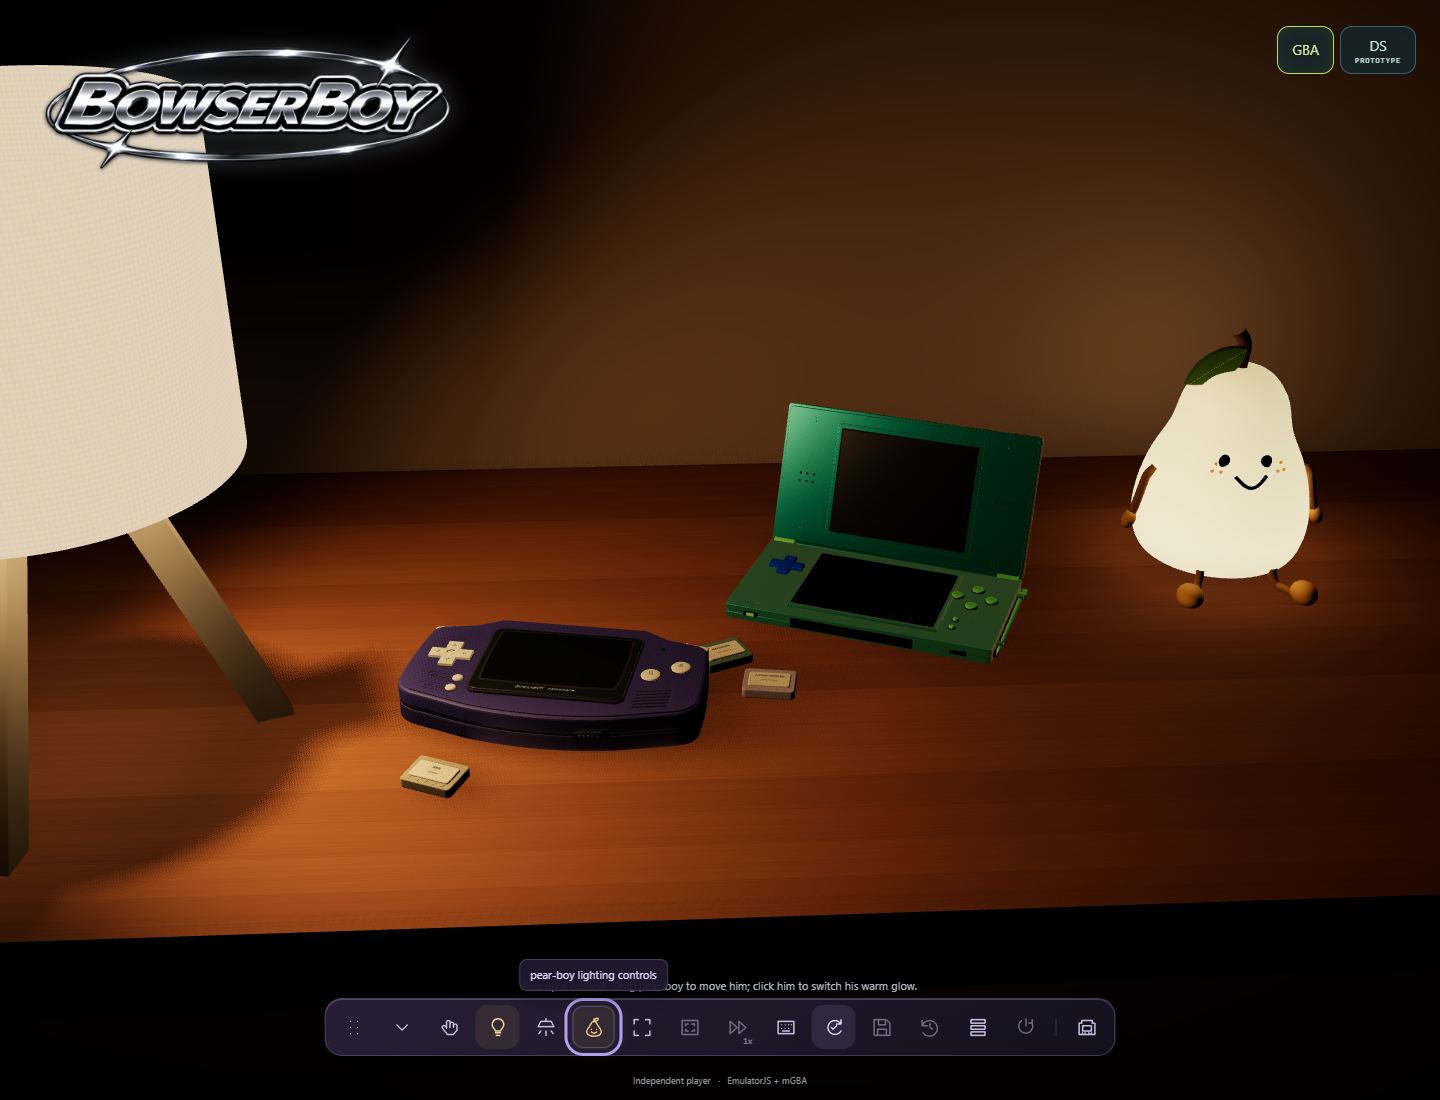
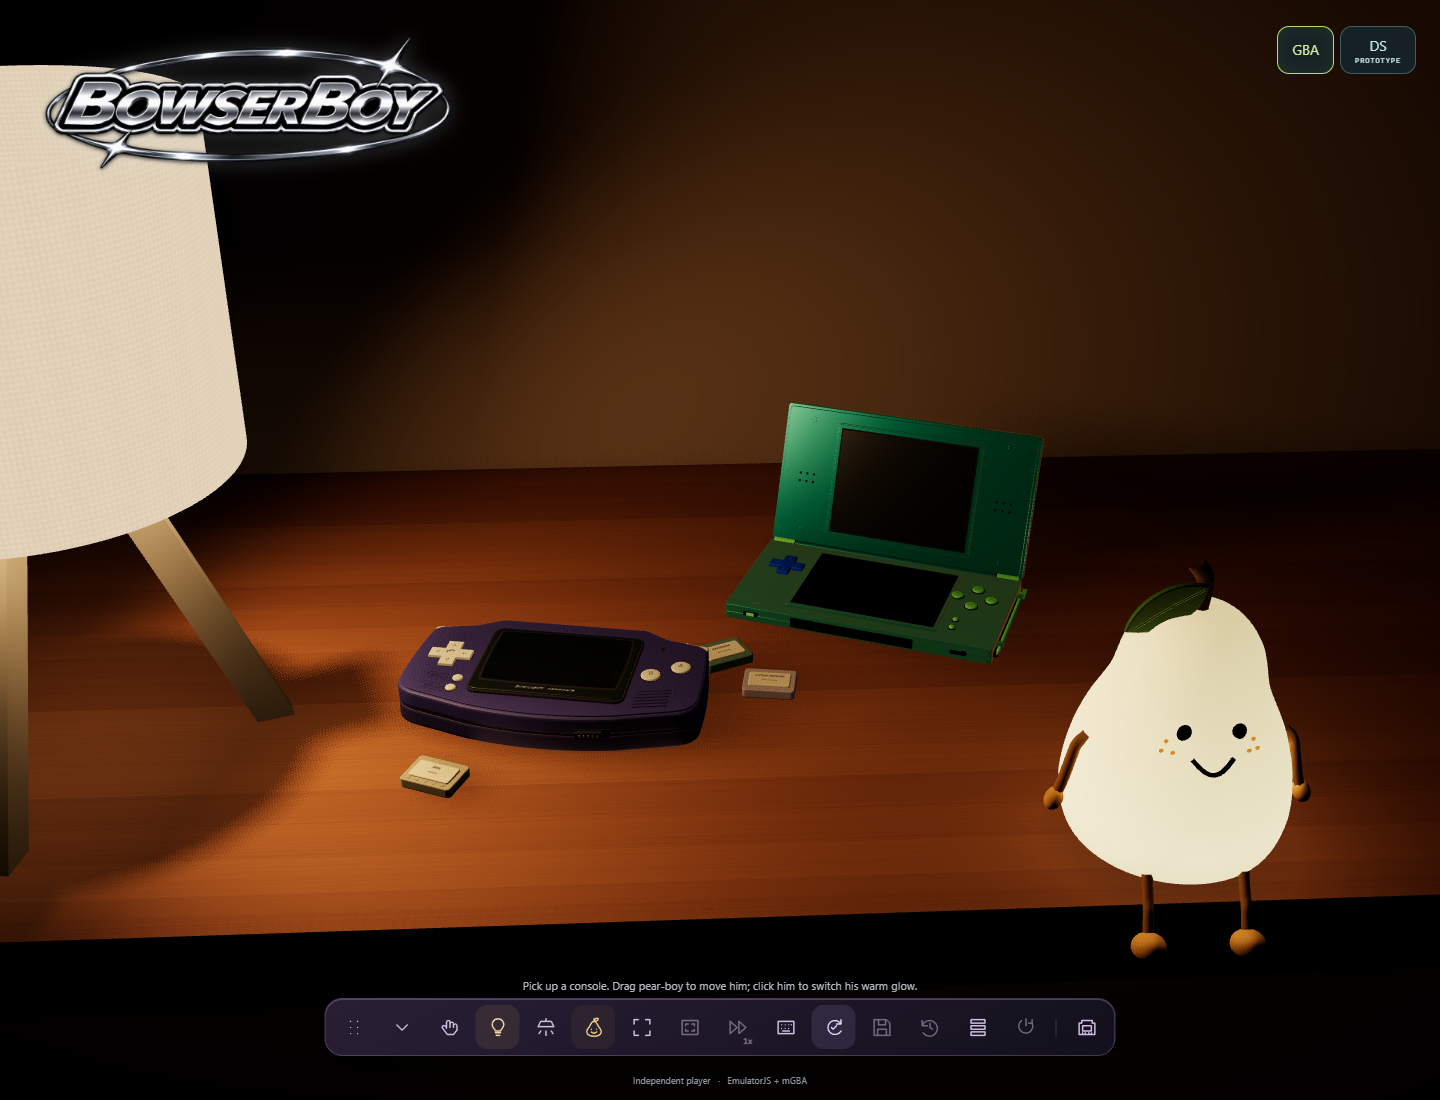
Seat pear-boy at the desk edge and move his whole face
Copilot-Session: 8e7d69ac-78f7-4310-8b8d-14bf8681a509

Changed region(s): [[0.6562, 0.1545, 1.0, 0.8655], [0.3438, 0.8655, 0.4688, 0.9582]]

diff --git a/src/pear-boy.js b/src/pear-boy.js
@@ -38,13 +38,15 @@ export function createPearBoy() {
   const cord = new THREE.MeshStandardMaterial({ color: '#ead8a8', map: braid, roughness: .95 });
   const limbs = [];
   const face = {
-    calm: new THREE.Group(), scared: new THREE.Group(), eyes: [],
+    root: new THREE.Group(), calm: new THREE.Group(), scared: new THREE.Group(), eyes: [],
     anchor: new THREE.Object3D(), gaze: new THREE.Vector2(), lifted: false, elapsed: 0,
   };
   face.calm.name = 'pear-boy curious face';
   face.scared.name = 'pear-boy scared-of-heights face';
   face.scared.visible = false;
-  root.add(face.calm, face.scared);
+  face.root.name = 'pear-boy pointer-following face';
+  face.root.add(face.calm, face.scared);
+  root.add(face.root);
   function mesh(name, geometry, material, position = new THREE.Vector3()) {
     const object = new THREE.Mesh(geometry, material);
     object.name = name;
@@ -106,6 +108,7 @@ export function createPearBoy() {
     for (const [x, y] of [[1.05, 4.25], [1.16, 4.03], [.92, 4.04]]) {
       const dot = mesh('pear-boy cheek freckle', new THREE.SphereGeometry(.055, 10, 8), freckles, front(side * x, y));
       dot.scale.z = .4;
+      face.root.add(dot);
     }
     const hand = mesh('pear-boy rounded hand', new THREE.SphereGeometry(1, 16, 12), gold,
       new THREE.Vector3(side * 3.05, 1.6, .8));
@@ -148,8 +151,11 @@ export function createPearBoy() {
     face.gaze.lerp(target, blend);
     if (face.gaze.distanceToSquared(target) < 1e-7) face.gaze.copy(target);
     const changed = face.gaze.x !== previousX || face.gaze.y !== previousY;
-    if (changed) for (const { mesh, side } of face.eyes) {
-      mesh.position.copy(front(side * .66 + face.gaze.x * .16, 4.5 + face.gaze.y * .14));
+    if (changed) {
+      face.root.position.y = face.gaze.y * .18;
+      face.root.rotation.y = face.gaze.x * .22;
+      const radius = radiusAt(4.5 + face.root.position.y) / radiusAt(4.5);
+      face.root.scale.set(radius, 1, radius);
     }
     if (face.lifted) {
       face.elapsed += Math.min(delta, .05);
@@ -184,7 +190,8 @@ export function createPearBoy() {
     context.fillRect(0, 0, width, height);
   });
   const contact = mesh('pear-boy soft contact shadow', new THREE.PlaneGeometry(6.6, 6.6),
-    new THREE.MeshBasicMaterial({ map: shadow, transparent: true, depthWrite: false }),
+    new THREE.MeshBasicMaterial({ map: shadow, transparent: true, depthWrite: false,
+      clippingPlanes: [new THREE.Plane(new THREE.Vector3(0, 0, -1), 10)] }),
     new THREE.Vector3(0, .012, .15));
   contact.rotation.x = -Math.PI / 2;
   contact.userData.pearBoy = false;
@@ -225,18 +232,18 @@ export function createPearBoy() {
     rope.geometry.computeBoundingBox();
     rope.geometry.computeBoundingSphere();
     tip.position.copy(curve.points.at(-1));
-    if (physics.positions.at(-1).y <= physics.tipFloor + .01) tip.quaternion.identity();
+    if (physics.tipSupported) tip.quaternion.identity();
     else tip.quaternion.setFromUnitVectors(up, tangent.subVectors(curve.points.at(-2), tip.position).normalize());
   }
   function resetLimbs() {
-    for (const limb of limbs) { limb.physics.reset(root.position); paintLimb(limb); }
+    for (const limb of limbs) { limb.physics.settle(root.position); paintLimb(limb); }
   }
   function updateLimbs(delta, reducedMotion) {
     let changed = false;
     for (const limb of limbs) {
       if (reducedMotion) {
         if (!limb.physics.sleeping || !limb.physics.origin.equals(root.position)) {
-          limb.physics.reset(root.position);
+          limb.physics.settle(root.position);
           paintLimb(limb);
           changed = true;
         }

diff --git a/src/pear-rope.js b/src/pear-rope.js
@@ -1,6 +1,7 @@
 import { Vector3 } from 'three';
 
 const step = 1 / 120;
+const tableFront = 10, tableBottom = -2.4;
 
 export class PearRope {
   constructor(points, { radiusAt, radius = .085, tipRadius = .32, tipFloor = tipRadius }) {
@@ -28,6 +29,20 @@ export class PearRope {
     this.accumulator = 0;
     this.quietFrames = 0;
     this.sleeping = true;
+  }
+
+  settle(origin) {
+    this.reset(origin);
+    this.sleeping = false;
+    for (let i = 0; i < 600 && !this.sleeping; i++) this.integrate();
+    this.previous.forEach((point, index) => point.copy(this.positions[index]));
+    this.accumulator = 0;
+    this.sleeping = true;
+  }
+
+  get tipSupported() {
+    const tip = this.positions.at(-1);
+    return Math.abs(tip.y - this.tipFloor) < .01 && tip.z <= tableFront;
   }
 
   update(origin, seconds) {
@@ -98,11 +113,28 @@ export class PearRope {
       for (let i = 1; i <= last; i++) {
         const p = this.positions[i], previous = this.previous[i];
         const floor = i === last ? this.tipFloor : this.radius;
-        if (p.y < floor) {
-          p.y = floor;
-          previous.y = floor;
-          previous.x = p.x - (p.x - previous.x) * .75;
-          previous.z = p.z - (p.z - previous.z) * .75;
+        const radius = i === last ? this.tipRadius : this.radius;
+        const edge = tableFront + radius;
+        if (p.y < floor && p.y > tableBottom - floor && p.z < edge) {
+          if (p.z > tableFront && p.y > 0) {
+            const distance = Math.hypot((p.z - tableFront) / radius, p.y / floor);
+            if (distance < 1) {
+              p.z = tableFront + (p.z - tableFront) / distance;
+              p.y /= distance;
+            }
+          } else if (p.y <= 0 && edge - p.z < floor - p.y) {
+            p.z = edge;
+            previous.z = edge;
+          } else {
+            p.y = floor;
+            previous.y = floor;
+            previous.x = p.x - (p.x - previous.x) * .75;
+            previous.z = p.z - (p.z - previous.z) * .75;
+          }
+        }
+        if (p.y < -35 + floor) {
+          p.y = -35 + floor;
+          previous.y = p.y;
         }
         const x = p.x - this.origin.x, z = p.z - this.origin.z;
         const radial = Math.hypot(x, z), body = this.radiusAt(p.y - this.origin.y);

diff --git a/src/scene.js b/src/scene.js
@@ -12,9 +12,9 @@ const playPosition = new THREE.Vector3(0, 3.5, 0);
 const tablePosition = new THREE.Vector3(-.6, .68, .4);
 const dsTablePosition = new THREE.Vector3(10.3, .32, -7.2);
 const dsTableQuaternion = new THREE.Quaternion().setFromEuler(new THREE.Euler(-Math.PI / 2, 0, -.4));
-const dsPlayPosition = new THREE.Vector3(10.3, 5.1, 3.5);
+const dsPlayPosition = new THREE.Vector3(10.3, 5.1, 8);
 const dsPlayQuaternion = new THREE.Quaternion().setFromEuler(new THREE.Euler(-.45, -.18, 0));
-const pearHome = new THREE.Vector3(21.3, 0, -8);
+const pearHome = new THREE.Vector3(15.3, 0, 7.3);
 
 export class HandheldScene {
   constructor(host, { onTools, onView, onError, onLamp, onConsole }) {
@@ -34,6 +34,7 @@ export class HandheldScene {
     this.renderer.shadowMap.enabled = true;
     this.renderer.shadowMap.type = THREE.PCFShadowMap;
     this.renderer.shadowMap.autoUpdate = false;
+    this.renderer.localClippingEnabled = true;
     this.canvas = this.renderer.domElement;
     this.canvas.id = 'scene-canvas';
     this.canvas.tabIndex = 0;
@@ -233,6 +234,7 @@ export class HandheldScene {
         if (steps[event.code]) {
           event.preventDefault();
           this.movePearTo(this.pear.root.position.clone().add(new THREE.Vector3(...steps[event.code])));
+          this.pearMotion.velocity.set(0, 0, 0);
         } else if (event.code === 'Enter' || event.code === 'Escape') {
           event.preventDefault();
           this.finishPearMove(event.code === 'Escape');
@@ -365,7 +367,7 @@ export class HandheldScene {
 
   movePearTo(point) {
     const position = new THREE.Vector3(THREE.MathUtils.clamp(point.x, -22, 24), THREE.MathUtils.clamp(point.y, 0, 25),
-      THREE.MathUtils.clamp(point.z, -11.5, 5.5));
+      THREE.MathUtils.clamp(point.z, -11.5, 7.5));
     const candidate = this.pear.bounds.clone().translate(position);
     const occupied = this.pearObstacles().some(bounds =>
       candidate.max.x + .25 > bounds.min.x && candidate.min.x - .25 < bounds.max.x &&

diff --git a/src/pear-motion.js b/src/pear-motion.js
@@ -63,7 +63,7 @@ export class PearMotion {
         supported = true;
       }
       for (const axis of ['x', 'z']) {
-        const low = axis === 'x' ? -22 : -11.5, high = axis === 'x' ? 24 : 5.5;
+        const low = axis === 'x' ? -22 : -11.5, high = axis === 'x' ? 24 : 7.5;
         if (this.position[axis] < low || this.position[axis] > high) {
           this.position[axis] = Math.max(low, Math.min(high, this.position[axis]));
           this.velocity[axis] *= -.23;

diff --git a/docs/ARCHITECTURE.md b/docs/ARCHITECTURE.md
@@ -41,12 +41,19 @@ scene/app event boundary for independent power, brightness, movement and reset.
 `src/pear-motion.js` advances an upright body at 120Hz with gravity, bounded
 release velocity, box-based prop collisions, desk bounds, bounce, friction
 and sleep. Pointer drags use a camera-facing plane plus grab offset; wheel
-depth translates that plane by the actual clamped displacement. Cancellation
+depth translates that plane by the actual clamped displacement. Keyboard
+steps clear pointer-style release velocity for deliberate placement. Cancellation
 restores the original pose and clears momentum. The contact shadow stays on
 the table, fading and widening with height.
 
 `src/pear-rope.js` uses fixed-step Verlet particles, a pinned anchor, heavier
-tip and iterative length/body/floor constraints. Dynamic tube vertices,
+tip and iterative length/body/table constraints. The finite desk top ends at
+world Z=10, with a 2.4-unit front fascia. Elliptical rounded-corner contact
+avoids an invisible square-expanded ledge under partly overhanging feet.
+Top/side projection lets the feet
+hang outside the front edge without cutting through the wood. Explicit reset
+and reduced motion settle the ropes for the actual body position rather than
+translating a flat-table rest pose. Dynamic tube vertices,
 normals and both bounds follow the particles in place. The thicker .14-radius
 arms and legs are longer than the first pear model; hands and feet follow their
 rope ends. Constraints also run when an anchor moves between physics steps,
@@ -54,7 +61,10 @@ preventing visible stretching on high-frequency pointer frames. Convergence
 is bounded at 120 iterations, ending early below .002 segment-length error.
 Body movement, ropes and face updates run before idle-paint suppression.
 
-Cursor gaze uses a stable face anchor, not a moving eye mesh. Held/airborne
+Cursor gaze uses a stable face anchor, not a moving eye mesh. A shared face
+group turns the eyes, mouth and freckles together around the pear's axis;
+vertical motion adjusts radial scale to follow its tapered shell. The body,
+leaf and anchor do not chase their own face movement. Held/airborne
 state selects squeezed eyes and a trembling mouth; settling restores the
 curious face. Reduced motion snaps gaze and removes decorative swing/tremble.
 DS reflections wait for landing instead of capturing every falling frame.
@@ -76,6 +86,9 @@ keeps both LCDs readable. Its table pose faces the lamp, rests on underside
 rubber feet and clears the loose cartridges. Pickup remains over its own
 side of the desk. Inspection invalidation compares the active root's identity,
 position and quaternion, rather than always watching the GBA.
+The held DS sits modestly forward of the seated pear, keeping the original
+front-facing inspection camera and both screens unobstructed without
+moving the console beyond the existing desk illumination.
 
 The physical shell uses #2A9D98 teal, metalness .80, roughness .35, deterministic
 fine-grain roughness/bump and clearcoat. Lime hinge/stylus plastic is dielectric

diff --git a/docs/VERIFICATION.md b/docs/VERIFICATION.md
@@ -7,9 +7,47 @@ The [engineering book](book/README.md) explains the mechanisms and failure
 lessons. Its source edition and local preview media do not replace this release
 record or constitute fresh execution of historical tests.
 
-## Current follow-up and manual-release status, 2026-11-06
+## Current follow-up and manual-release status, 2026-11-07
 
-### pear-boy local companion
+### Whole-face tracking, seated edge and transparent DS emblem
+
+Final `npx playwright test ds.spec.mjs pear-boy.spec.mjs`: **10 passed in 1.9m**,
+all four DS cases and all six pear cases. This requalifies actual Twin Lab
+pixels, buttons/stylus, saves/lifecycle/retry and 390px framing after the DS
+pickup adjustment. Pear checks include the whole eye/mouth/freckle group,
+default dangling feet, tabletop placement, return to the edge, reduced-motion
+reset, real touch, diffuse warm wood pixels and visible free-3D falling.
+All **34 working-tree unit tests**, application syntax and build pass.
+The three original lamp/dark-room/LCD-spill cases passed in the preceding
+combined gate; this is not a full-suite result.
+
+The exact staged feature was then extracted without unrelated sparse-clock
+or tracking edits. Its **30 unit tests**, syntax and build pass; a single
+**13-case Edge gate passes in 2.6m**, combining all six pear, four DS and
+three original lighting cases. This independently qualifies the committed
+subset rather than relying on uncommitted changes elsewhere.
+
+An intermediate rounded-edge fixture exposed feet asleep on an invisible
+square-expanded ledge. Elliptical top/front contact lets overhanging feet
+slide down instead. Keyboard steps now clear pointer-style throw momentum.
+Light probes were moved from behind the new pear silhouette onto visible
+wood; actual warmth/falloff requirements remain. Longer pointer travel
+qualifies the same world-space lift thresholds in the closer framing.
+
+The new foreground pear initially obscured DS inspection. A distant forward
+trial made the shell too dark; a lateral camera trial still left occlusion.
+Both were discarded. A modest forward held-DS placement preserves the
+original front-facing camera, actual teal pixels and existing light rig.
+The supplied Chrome Neon emblem has transparent browser-loaded corners,
+2149x732 intrinsic dimensions and retained bright lettering/glow.
+
+Actual final edge, interior, DS front and phone renders were reviewed.
+Body physics remains upright/box-based, not a full rigid-body or cloth engine;
+rope contacts cover the pear and desk, not arbitrary moving props.
+Owner aesthetic acceptance, physical phones, push and deployment are not
+qualified. Earlier results below retain their original scope and date.
+
+### Earlier pear-boy local companion gate, 2026-11-06
 
 One focused Edge gate passes **8 cases in 1.4m**: five pear cases plus original
 lamp/dark-room/LCD-spill regressions. Real near/far desk pixels verify broader

diff --git a/docs/GUIDE.md b/docs/GUIDE.md
@@ -167,18 +167,22 @@ still executes with the page's origin privileges.
 
 ## pear-boy
 
-The pear character at the desk's upper right is a separate movable warm lamp.
+The pear character sitting on the front-right desk edge is a separate movable warm lamp.
 Click him to switch his glow, or use the pear dock button for power,
 10-100% brightness, **Move** and **Reset position**. Lighting and position last
-for this page session only. Reset returns him home without changing brightness.
+for this page session only. Reset returns him to the edge without changing brightness.
+His feet hang below the tabletop when placed close enough to its front edge;
+move him farther back to let them rest on the table.
 
 Drag to move in a camera-facing plane; upward movement lifts him. While holding
 him, scroll for depth. Alternatively choose **Move**, use arrows across the desk,
 **Page Up/Page Down** for height and **Enter** to drop. **Escape** cancels the
 move and restores its starting position. Releasing a drag drops him with
 gravity, bounded throwing inertia, a small bounce and friction.
+Keyboard steps place him deliberately without accumulating throwing speed.
 
-The longer, thick braided rope arms and legs swing and settle. His eyes track
+The longer, thick braided rope arms and legs swing and settle. His entire face
+(eyes, smile and freckles together) tracks
 mouse/pen movement, and his squeezed eyes/wobbly mouth remain frightened while
 held or falling. Reduced motion removes decorative swinging and trembling,
 not the gravity needed to complete a drop.
@@ -191,7 +195,8 @@ not an edited reference image.*
 Movement stays within a bounded tabletop workspace and rejects occupied
 placement. Body collisions approximate props with boxes and keep the pear
 upright; this is not a rotating rigid-body engine or full cloth simulation.
-Ropes collide with the pear body and desk, not every prop surface.
+Ropes collide with the pear body and the desk's top/front edge, not every prop
+surface. Reduced motion keeps a settled edge-aware pose rather than swinging.
 Physical-phone performance and owner visual acceptance remain unqualified.
 
 ## Lights out

diff --git a/.agent-context/PUBLIC.md b/.agent-context/PUBLIC.md
@@ -37,7 +37,13 @@ This prototype is not pushed/deployed. Phone-performance work78
 and boxed cartridges80 remain deferred.
 Local workstream84 adds pear-boy: independent warm lighting/dock controls,
 longer thick rope limbs, cursor/scared face and bounded3Dpickup/drop physics.
-Five pear browser cases plus three affected lighting cases pass together.
+Whole-face tracking includes eyes, mouth and freckles. Default front-right
+edge placement dangles the feet; farther-back placements rest them on top.
+All six pear plus four DS browser cases pass together after an unobstructed
+held-DS placement adjustment. The exact feature snapshot also passes all
+13affected browser cases together, including three original lighting cases,
+and30units without unrelated pending clock/tracking edits.
+The latest supplied Chrome Neon DS emblem has its black matte removed.
 Body collisions remain upright/box-based; ropes collide with the pear/desk,
 not arbitrary prop surfaces or moving supports. Owner/device review pending.
 Supplied demo media permissions are not blanket rights for new ROMs or testing.

diff --git a/README.md b/README.md
@@ -78,10 +78,11 @@ The GBA's native shader/settings/fullscreen features are not all DS features.
 ![pear-boy beside the separate GBA and DS, lighting the desk](docs/images/pear-boy-table.png)
 
 *Actual local capture: pear-boy spreads warm light across the right side of the
-desk. His longer, thick rope arms and legs swing when you lift him.*
+desk. He sits on the front-right edge with his rope legs dangling below it.*
 
 Drag him upward or sideways, scroll for depth, then release to drop and bounce.
-His eyes follow the cursor; being picked up brings out his scared face.
+His whole face follows the cursor; being picked up brings out his scared face.
+Move him farther back to rest his feet on the table.
 The pear dock button controls power, brightness, movement and reset.
 [Controls and physics limits](docs/GUIDE.md#pear-boy).
 This addition is local, not deployed.
